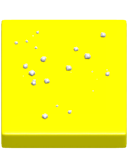
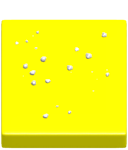
now with better mountains

diff --git a/js/controllers.js b/js/controllers.js
@@ -39,7 +39,7 @@ function mapController($scope, angularFire) {
     },
     mountain:{
       id:'mountain',
-      art:[terrainAssetPath+"mountain_0.png", terrainAssetPath+"mountain_1.png", terrainAssetPath+"mountain_2.png"],
+      art:[terrainAssetPath+"mountain_0.png", terrainAssetPath+"mountain_3.png", terrainAssetPath+"mountain_2.png", terrainAssetPath+"mountain_1.png"],
       terrainVariant:0,
       label:'mountain'
     },
